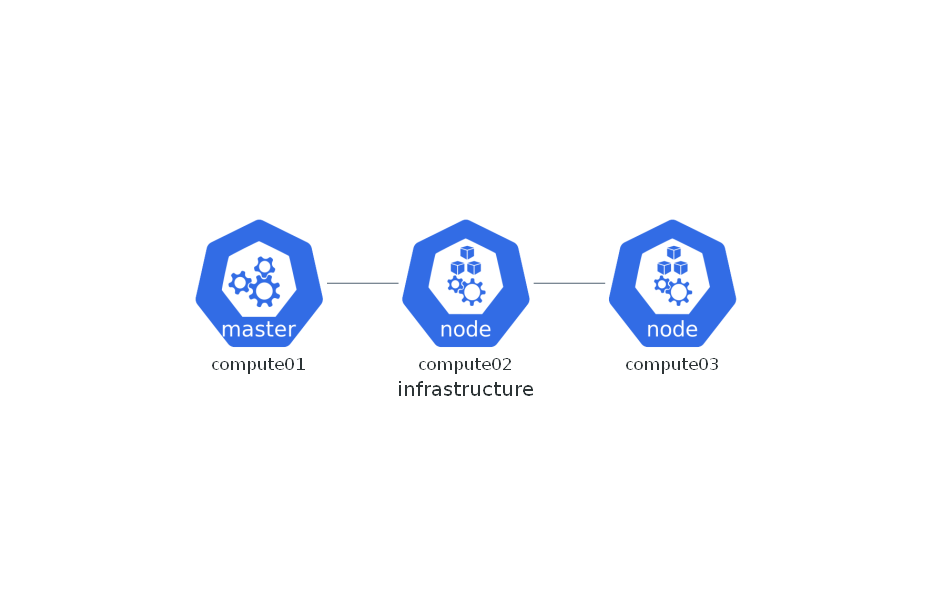
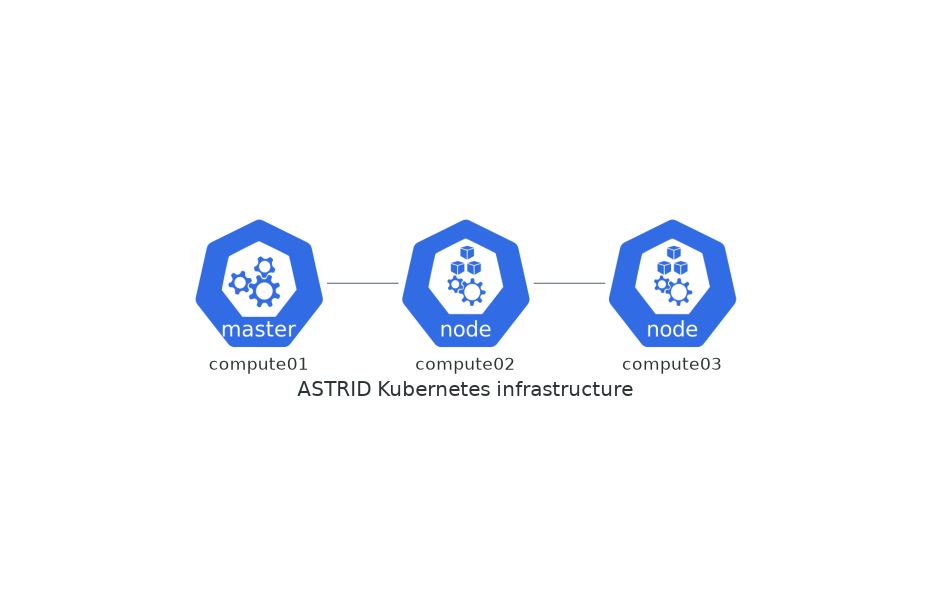
README k8s update

Changed region(s): [[0.2178, 0.6, 0.7779, 0.66]]

diff --git a/k8s/tasks/diagram.py b/k8s/tasks/diagram.py
@@ -20,14 +20,14 @@ from invoke import task
 
 @task
 def general(c):
-    with Diagram('general', show=False):
+    with Diagram('General Configuration', filename='general', show=False):
         _ = NS('astrid-kube')
         _cb_pod = Pod('CB')
         _cb_deploy = Deployment('CB')
 
         with Cluster('Services'):
             _srvs = [Service('elasticsearch-service'),
-                     Service('kafka-service'), Service('cb-manager-service'), Service['kibana']]
+                     Service('kafka-service'), Service('cb-manager-service'), Service('kibana')]
 
         with Cluster('Storage'):
             _strg = PVC('elasticsearch-pv-volume') >> PV('elasticsearch-pv')
@@ -37,7 +37,7 @@ def general(c):
 
 @task
 def cb(c):
-    with Diagram('cb', show=False):
+    with Diagram('Context Broker Pod', filename='cb', show=False):
         _kafka = Kafka('Kafka')
         _zk = Zookeeper('Zookeeper')
         _logstash = Logstash('Logstash')
@@ -65,5 +65,5 @@ def cb(c):
 
 @task
 def infrastructure(c):
-    with Diagram('infrastructure', show=False):
+    with Diagram('ASTRID Kubernetes infrastructure', filename='infrastructure', show=False):
         _ = Master('compute01') - Node('compute02') - Node('compute03')
